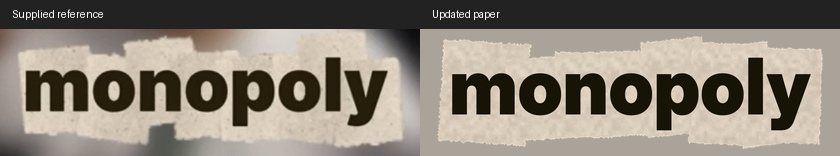
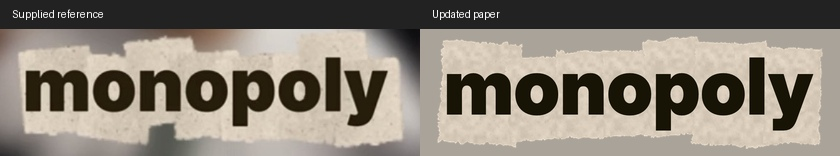
Refine emphasis paper tears, overlap shadows and width

diff --git a/assets/text/emphasis.js b/assets/text/emphasis.js
@@ -38,22 +38,32 @@
   }
 
   function scrap(context, width, height, seed) {
-    const points = [], rough = Math.min(width, height) * .028;
+    const points = [], size = Math.min(width, height), rough = size * .035;
     const corners = [[0, 0], [width, 0], [width, height], [0, height]];
     for (let side = 0; side < 4; side++) {
       const [x0, y0] = corners[side], [x1, y1] = corners[(side + 1) % 4];
-      const length = Math.hypot(x1 - x0, y1 - y0), count = Math.max(8, Math.ceil(length / 2.2));
-      for (let i = 0; i < count; i++) {
-        const t = i / count, offset = (hash(i, side, seed) - .35) * rough;
+      const length = Math.hypot(x1 - x0, y1 - y0);
+      for (let distance = 0, i = 0; distance < length; i++) {
+        const t = distance / length;
+        const drift = (softNoise(distance, side * 31, size * .1, seed) - .5) * rough * 1.3;
+        const jagged = (hash(i, side, seed) - .5) * rough * .6;
+        const bite = hash(i, side + 9, seed) < .1 ? rough * (.5 + hash(i, side + 13, seed) * .4) : 0;
+        const offset = Math.max(-rough * .85, Math.min(rough * .9, drift + jagged + bite));
         points.push([x0 + (x1 - x0) * t - (y1 - y0) / length * offset,
           y0 + (y1 - y0) * t + (x1 - x0) / length * offset]);
+        distance += size * (.011 + hash(i, side + 5, seed) * .023);
       }
     }
     context.beginPath();
     points.forEach(([x, y], i) => i ? context.lineTo(x, y) : context.moveTo(x, y));
-    context.closePath(); context.clip();
+    context.closePath();
     context.fillStyle = context.createPattern(material, 'repeat');
-    context.fillRect(-rough, -rough, width + rough * 2, height + rough * 2);
+    // A faint contact shadow stays on existing scraps, leaving the exterior transparent.
+    context.save(); context.globalCompositeOperation = 'source-atop';
+    context.shadowColor = 'rgba(36,28,18,.1)'; context.shadowBlur = size * .024;
+    context.shadowOffsetX = size * .006; context.shadowOffsetY = size * .016;
+    context.fill(); context.restore();
+    context.fill(); context.clip();
     // Fine fibers belong to the stock, never to the ink or the canvas exterior.
     context.lineWidth = .34; context.strokeStyle = 'rgba(62,55,36,.12)';
     for (let i = 0; i < width * height / 38; i++) {
@@ -90,7 +100,7 @@
       const x = probe.measureText(prefix + character).width - advance; prefix += character;
       if (/\s/.test(character)) continue;
       const pieceSeed = (seed ^ Math.imul(i + 1, 1597334677)) >>> 0;
-      let paperWidth = advance + fontSize * (.20 + hash(i, 9, seed) * .08);
+      let paperWidth = (advance + fontSize * (.20 + hash(i, 9, seed) * .08)) * .88;
       let h = paperHeight * (.86 + hash(i, 10, seed) * .26);
       const shiftX = (hash(i, 5, seed) - .5) * fontSize * .075;
       const shiftY = (hash(i, 6, seed) - .5) * fontSize * .30;

diff --git a/references/validation.md b/references/validation.md
@@ -9,5 +9,6 @@
 - Independent review: **GPT-6 Astra / ultra**, read-only, reviewed the complete original request, both attached images, uncommitted source, original rendering logic and rendered evidence. Its duplicate-heading finding was fixed, and sticker SFX timing was aligned to the 34% corner-anchor point. Final review reported no outstanding confirmed P1/P2 issue. The remaining suggestion is listening once alongside narration for subjective sound fit.
 - Text: bundled font identities/licenses checked; Portuguese accents and transparent 2× lettering rendered with identical hashes on repeated runs. A side-by-side comparison guided the individual paper offsets, heights and rotations. The phrase example passed strict HyperFrames checks, its timed snapshots showed cumulative words over a fading scene blur, and an actual 1920×1080/24 fps export retained the lettering. A separate **GPT-6 Astra / ultra** read-only review found no confirmed bug or missing text requirement.
 - Text material (2026-10-13): matched the supplied crop's warm beige stock and softer texture; refreshed comparisons and the 1920×1080/24 fps example export. Repeated PNG bytes, before/after alpha and all opaque ink pixels stayed identical. Strict HyperFrames checks passed; **GPT-6 Astra / ultra** read-only review found no blocking issue.
+- Text scraps (2026-10-14): irregular tears and faint overlap shadows retain full ink coverage across six samples, including accents and narrow letters. Both “be” scraps are 12% narrower; glyph guards limit reduction where needed. Palette, texture and ink remain unchanged; repeat PNGs match and shadows preserve exterior alpha. CLI rendering, strict HyperFrames checks and the refreshed 24 fps export passed; **GPT-6 Astra / ultra** read-only review found no blocking issue.
 
 Run `pnpm verify` for renderer invariants or `pnpm verify /path/to/generated-folder` to also verify its encoded size, frame rate and actual decoded WebM alpha. Original hand/ball visual workflows remain unchanged; only fixed sound instructions and broken resource paths were added/corrected.

diff --git a/references/text.md b/references/text.md
@@ -8,7 +8,7 @@ Normal text uses [Special Elite Regular](../assets/fonts/SpecialElite-Regular.tt
 node "$SKILL_ROOT/scripts/emphasis.mjs" "LIBERDADE" word.png --size 160
 ```
 
-The transparent PNG is rendered at 2× its logical font size for crisp scaling. It already includes the finished paper lettering; do not filter it again. Preserve wording/case unless the chosen emphasis pattern calls for uppercase. Paper uses a warm beige base **RGB 216, 203, 186 (`#D8CBBA`)**, diffuse mottling and sparse soft gray-brown flecks ([material comparison](../assets/previews/emphasis-material-comparison.jpg)). The seeded paper height, position, torn edge and rotation vary **per letter**; ink remains upright and sharp. Paper poses stay fixed while the word is visible.
+The transparent PNG is rendered at 2× its logical font size for crisp scaling. It already includes the finished paper lettering; do not filter it again. Preserve wording/case unless the chosen emphasis pattern calls for uppercase. Paper uses a warm beige base **RGB 216, 203, 186 (`#D8CBBA`)**, diffuse mottling and sparse soft gray-brown flecks ([material comparison](../assets/previews/emphasis-material-comparison.jpg)). Narrower scraps have uneven torn edges and faint shadows only at overlaps ([detail comparison](../assets/previews/emphasis-details-comparison.jpg)); the width guard keeps ink on paper. The seeded paper height, position, torn edge and rotation vary **per letter**; ink remains upright and sharp. Paper poses stay fixed while the word is visible.
 
 For native HyperFrames canvas lettering, load [fonts.css](../assets/text/fonts.css) and [emphasis.js](../assets/text/emphasis.js), then:
 
